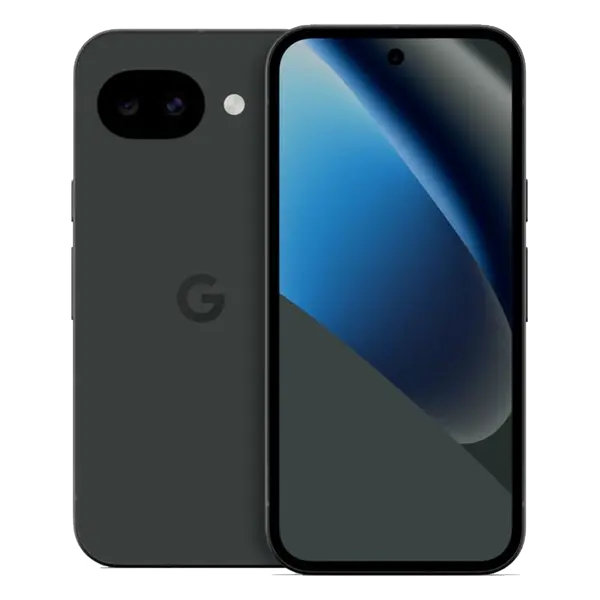
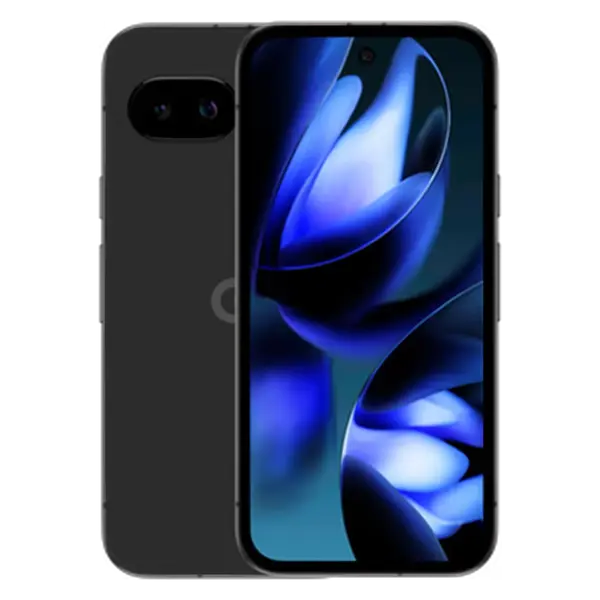
Use previous 9a photo for SPEX 10a and add new SPEX 9a photo
Claude-Session: https://claude.ai/code/session_01Qmjx2RPQ5QHgX4v2zFmpgj

diff --git a/website/src/data/phones.ts b/website/src/data/phones.ts
@@ -57,6 +57,8 @@ export const phones: PhoneModel[] = [
     tagline: 'The current standard.',
     description: 'The latest a-series SPEX — modern hardware, long-term outlook and the complete SPEX configuration.',
     finish: 'midnight',
+    image: '/images/phones/pixel-10a.webp',
+    imageSrcset: '/images/phones/pixel-10a.webp 1x, /images/phones/pixel-10a@2x.webp 2x',
     badge: 'Recommended',
   },
   {
